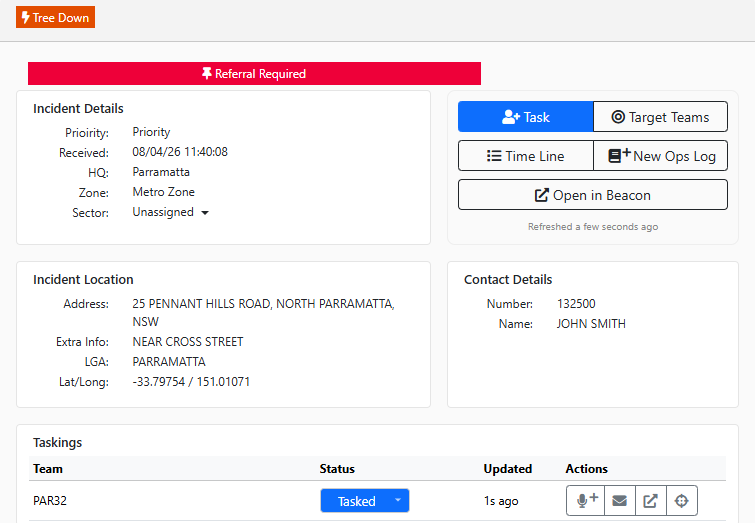
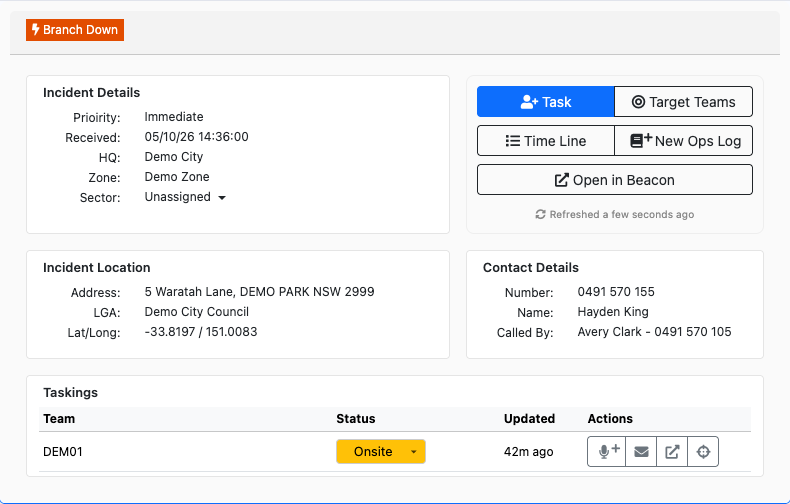
Sync preview docs from NSWSESMembers/Lighthouse@ea4ed2c (master-dev)

diff --git a/preview/guides/lad/incident-register.md b/preview/guides/lad/incident-register.md
@@ -65,8 +65,7 @@ The expanded view shows:
 - Incident details, including the assigned sector
   - Click the current sector to choose a different one from a dropdown.
 - Incident location details
-- Caller details
-- Contact details
+- Contact details: the contact's name and number. If someone else made the call, a *Called By* line shows the caller's name and number; it's hidden when the caller is the contact.
 - [Incident actions](#incident-actions)
 - Taskings list: every team tasked to the incident, including teams outside your LAD team filters, and untasked, called off and completed teams. See [Incident Taskings Actions](#incident-taskings-actions).
 
